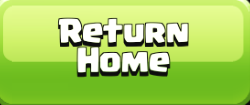
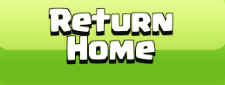
Update templates and regions for the new game UI
- New ATTACK (Battle), Attack_DC, RETURN_HOME, RETURN_HOME_DC templates
  cut from 1920x1080 emulator frames
- Search regions resized to fit the new buttons
- MY_GOLD / MY_ELIXIR regions moved to the new resource bars

Claude-Session: https://claude.ai/code/session_01VZjaDFhsePms4kBkUSaBJu

Changed region(s): [[0.1867, 0.0706, 0.7778, 0.7765], [0.0, 0.0, 1.0, 0.5882], [0.0, 0.8706, 1.0, 1.0]]

diff --git a/src/main/java/Regions.java b/src/main/java/Regions.java
@@ -1,5 +1,5 @@
 public class Regions {
-    public static final Region ATTACK = new Region(35, 900, 180, 140);
+    public static final Region ATTACK = new Region(28, 862, 198, 198);
     public static final Region FIND_MATCH = new Region(115, 735, 430, 130);
     public static final Region FIND_MATCH_1 = new Region(663, 735, 430, 130);
     public static final Region ATTACK_GO = new Region(1530, 923, 320, 80);
@@ -7,7 +7,7 @@ public class Regions {
     public static final Region END_BATTLE = new Region(29, 773, 219, 65);
     public static final Region SURRENDER = new Region(29, 773, 219, 65);
     public static final Region SURRENDER_OKAY = new Region(1000, 614, 330, 140);
-    public static final Region RETURN_HOME = new Region(837, 875, 250, 105);
+    public static final Region RETURN_HOME = new Region(837, 877, 250, 100);
     public static final Region OKAY_STAR_BONUS = new Region(835, 865, 250, 105);
     public static final Region OKAY_STAR_BONUS_DC = new Region(825, 787, 250, 105);
     public static final Region ELIXIR_CART = new Region(1270, 2,20,30);
@@ -15,10 +15,10 @@ public class Regions {
     public static final Region CASE = new Region(757,738,310,110);
     public static final Region CONTINUE = new Region(835, 865, 250, 105);
 
-    public static final Region Attack_DC = new Region(33,863,180,180);
+    public static final Region Attack_DC = new Region(28, 862, 198, 198);
     public static final Region Find_Now = new Region(1244,650,340,120);
     public static final Region SURRENDER_DC = new Region(29, 717, 219, 65);
-    public static final Region RETURN_HOME_DC = new Region(837, 860, 250, 105);
+    public static final Region RETURN_HOME_DC = new Region(837, 862, 250, 100);
 
     public static final Region Battle_Machine = new Region(135,895, 120,75);
     public static final Region Battle_COPTER = new Region(135,895, 120,75);
@@ -56,8 +56,8 @@ public class Regions {
 
     public static final Region GOLD_ATTACK = new Region(95, 145, 183, 50);
     public static final Region ELIXIR_ATTACK = new Region(95, 200, 183, 50);
-    public static final Region MY_GOLD = new Region(1610, 45,200,30);
-    public static final Region MY_ELIXIR = new Region(1610, 147,200,30);
+    public static final Region MY_GOLD = new Region(1625, 40, 210, 36);
+    public static final Region MY_ELIXIR = new Region(1625, 113, 210, 36);
 
 
     public static final Region BATTLE_BAR = new Region(130, 960, 1500, 50);
